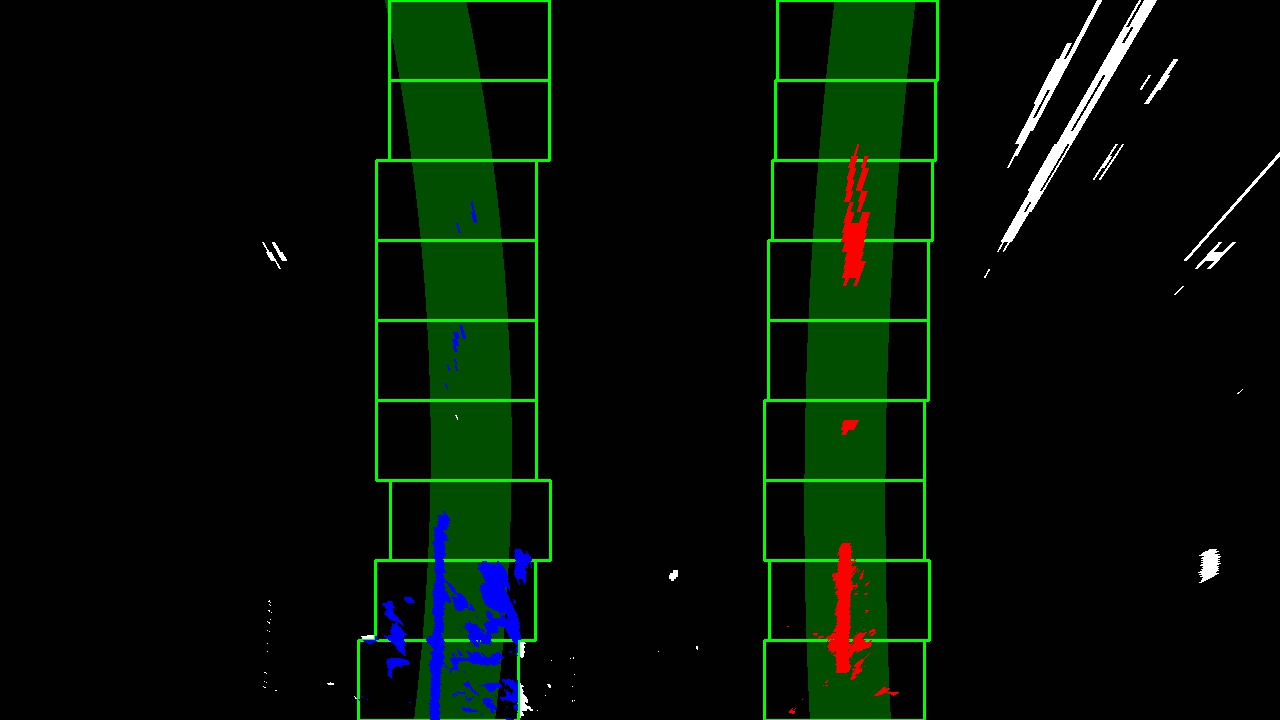
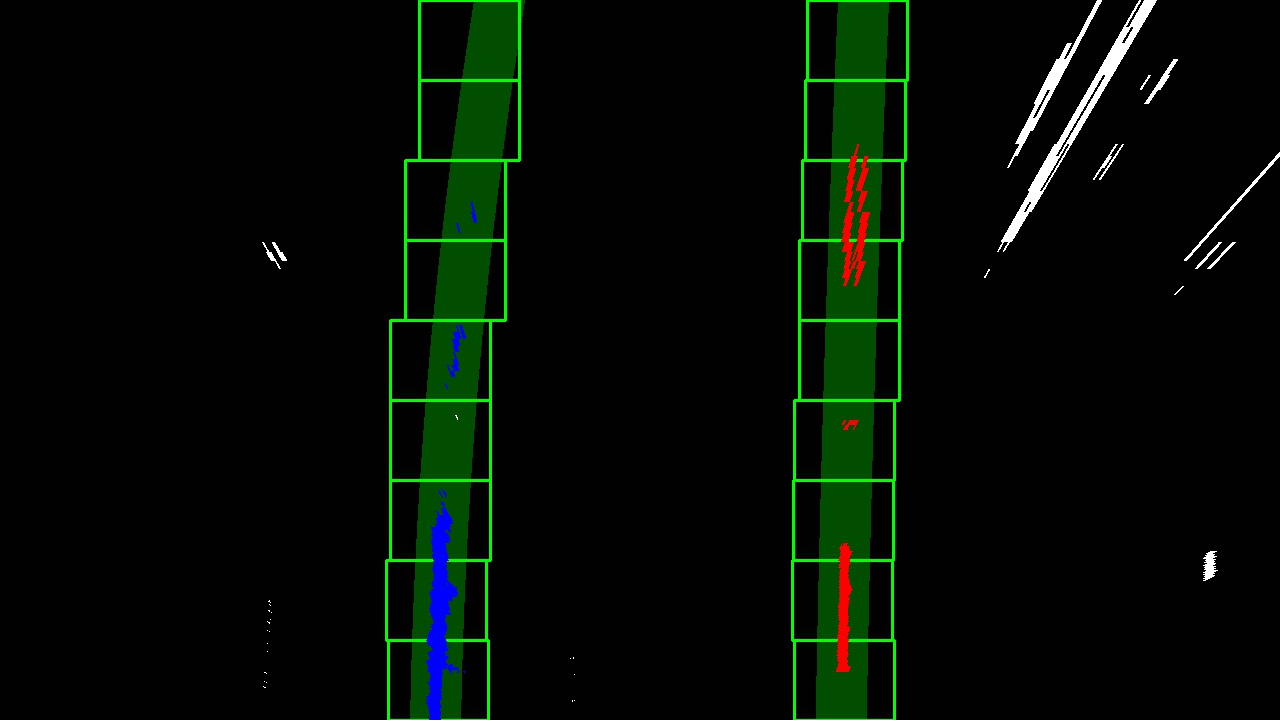
Lower LAB-L threshold, more lane line pixels

Changed region(s): [[0.5938, 0.0, 0.75, 1.0], [0.25, 0.0, 0.4375, 1.0], [0.9375, 0.7639, 0.9688, 0.7944]]

diff --git a/lanelines.py b/lanelines.py
@@ -89,19 +89,22 @@ def undistort_image(img, mtx, dist):
 
 # Originally copied from 30. Color and Gradient
 # assume img in BGR format
-def threshold_pipeline(img, sobel_x_thresh=(45, 200), luv_l_thresh=(225, 255), lab_b_thresh=(191, 255)):
+def threshold_pipeline(img, sobel_x_thresh=(45, 200), luv_l_thresh=(225, 255),
+                       lab_l_thresh=(185, 255), lab_b_thresh=(146, 255)):
     img = np.copy(img)
     # Tweaked thresholding according to first reviwer's suggestions for improvements:
     # White is detected well with L of LUV color space [225, 255]
     # Yellow is detected well with b channel of Lab [155, 255] to [200, 255]
 
+    # Original: luv_l_thresh=(225, 255), lab_b_thresh=(191, 255)
+
     # Trial-and-error to detect yellow using LAB color space: 123=LAB
-    # lower_yellow_1 = 197
-    # lower_yellow_2 = 1
-    # lower_yellow_3 = 146
-    # upper_yellow_1 = 359
-    # upper_yellow_2 = 359
-    # upper_yellow_3 = 359
+    # lower_yellow_L = 197
+    # lower_yellow_A = 1
+    # lower_yellow_B = 146
+    # upper_yellow_L = 359
+    # upper_yellow_A = 359
+    # upper_yellow_B = 359
 
     # Trial-and-error to detect white using LUV color space: 123=LUV
     # LUV color space, 123=LUV
@@ -131,16 +134,20 @@ def threshold_pipeline(img, sobel_x_thresh=(45, 200), luv_l_thresh=(225, 255), l
     luv_l_binary[(luv_l_channel >= luv_l_thresh[0]) & (luv_l_channel <= luv_l_thresh[1])] = 1
 
     # Thresholding Lab b channel to [155, 200] aimed at yellow lane lines (blue in color_binary)
-    lab_b_channel = lab[:,:,0]
-    lab_b_binary = np.zeros_like(lab_b_channel)
-    lab_b_binary[(lab_b_channel >= lab_b_thresh[0]) & (lab_b_channel <= lab_b_thresh[1])] = 1
+    lab_l_channel = lab[:,:,0]
+    lab_b_channel = lab[:,:,2]
+    lab_binary = np.zeros_like(lab_b_channel)
+    lab_binary[(lab_l_channel >= lab_l_thresh[0]) & (lab_l_channel <= lab_l_thresh[1])
+               &
+               (lab_b_channel >= lab_b_thresh[0]) & (lab_b_channel <= lab_b_thresh[1])
+                ] = 1
 
     # Stack each channel (output is BGR format)
     # zero-channel can be inserted with: np.zeros_like(binaryimage)
-    color_binary = np.dstack((lab_b_binary, sxbinary, luv_l_binary))
+    color_binary = np.dstack((lab_binary, sxbinary, luv_l_binary))
 
     combined_binary = np.zeros_like(sxbinary)
-    combined_binary[(sxbinary == 1) | (luv_l_binary == 1) | (lab_b_binary == 1)] = 1
+    combined_binary[(sxbinary == 1) | (luv_l_binary == 1) | (lab_binary == 1)] = 1
 
     return color_binary, combined_binary
 
@@ -203,7 +210,7 @@ class LaneFinder:
             rightx_current = self.right_lane_centers[0]
 
         # Set the width of the windows +/- margin
-        margin = 80
+        margin = 50
         # Set minimum number of pixels found to recenter window
         minpix = 40
         # Create empty lists to receive left and right lane pixel indices
@@ -429,7 +436,8 @@ def transform_src_and_dst(img):
 # For each video, process each frame and output the resulting video
 def process_video(input, output, process_image_fun):
     clip = VideoFileClip(input)
-    # clip = clip.subclip(*subclip_secs)
+    # Uncomment to generate small quick range, range in seconds (start, end)
+    #clip = clip.subclip(35, 45)
     vid_clip = clip.fl_image(process_image_fun)
     vid_clip.write_videofile(output, audio=False)
     return
